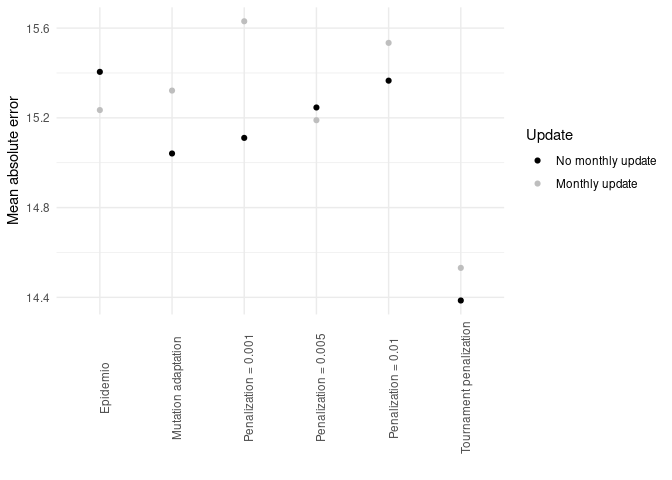
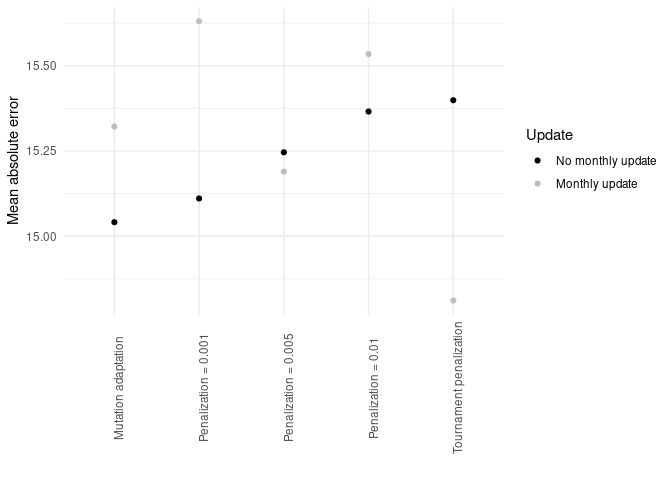
update results

diff --git a/script/results_high_dim_rc_exp2.md b/script/results_high_dim_rc_exp2.md
@@ -52,8 +52,6 @@ prediction](results_high_dim_rc_exp2_files/figure-commonmark/sanitycheck-1.png)
 
 | model | update | MAE | MRE | MAEB | MREB |
 |:---|:---|:---|:---|:---|:---|
-| Epidemio | No monthly update | 15.4(±13.1) | 0.27(±0.33) | -3.18(±6.59) | 0.85(±1.74) |
-| Epidemio | Monthly update | 15.23(±13.78) | 0.24(±0.35) | -3.35(±8.58) | 0.84(±2.1) |
 | Mutation adaptation | No monthly update | 15.04(±12.02) | 0.25(±0.33) | -3.55(±6.94) | 0.85(±1.47) |
 | Mutation adaptation | Monthly update | 15.32(±12.99) | 0.25(±0.35) | -3.27(±6.66) | 0.86(±1.34) |
 | Penalization = 0.001 | No monthly update | 15.11(±13.08) | 0.25(±0.35) | -3.48(±6.66) | 0.84(±0.84) |
@@ -62,8 +60,8 @@ prediction](results_high_dim_rc_exp2_files/figure-commonmark/sanitycheck-1.png)
 | Penalization = 0.005 | Monthly update | 15.19(±12.84) | 0.27(±0.34) | -3.4(±5.78) | 0.84(±0.99) |
 | Penalization = 0.01 | No monthly update | 15.37(±12.84) | 0.26(±0.34) | -3.22(±6.29) | 0.87(±1.42) |
 | Penalization = 0.01 | Monthly update | 15.53(±12.92) | 0.26(±0.35) | -3.05(±5.74) | 0.87(±1.07) |
-| Tournament penalization | No monthly update | 14.39(±12.71) | 0.26(±0.34) | -3.14(±6.2) | 0.85(±1.29) |
-| Tournament penalization | Monthly update | 14.53(±12.84) | 0.29(±0.36) | -3(±5.87) | 0.87(±1.02) |
+| Tournament penalization | No monthly update | 15.4(±12.97) | 0.26(±0.34) | -3.19(±5.99) | 0.86(±1.42) |
+| Tournament penalization | Monthly update | 14.81(±12.5) | 0.24(±0.32) | -3.78(±5.97) | 0.84(±1.25) |
 
 Model performance
 
